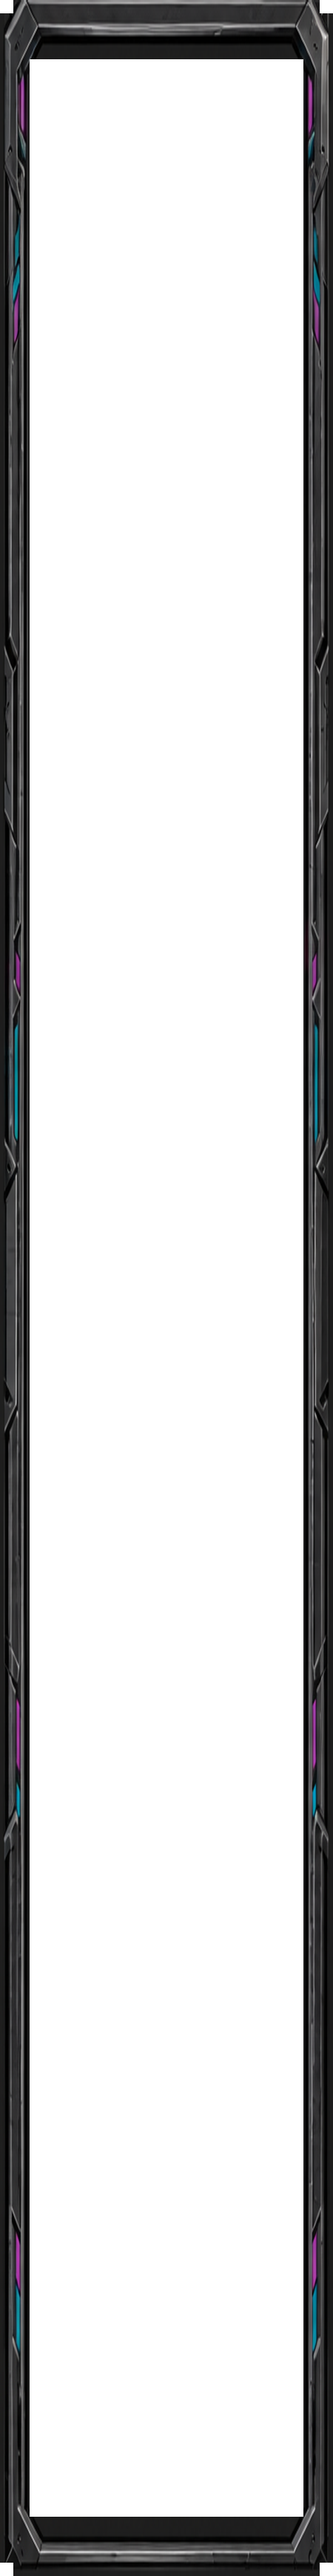
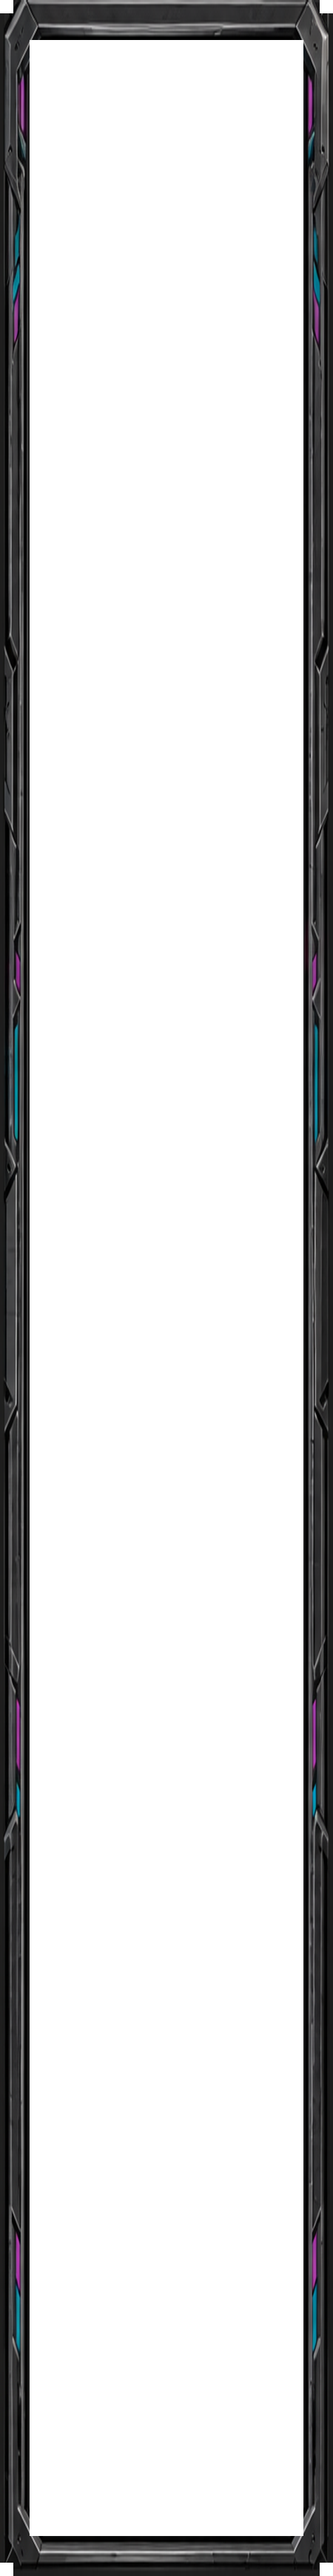
fix: extend championship gate interior window

Changed region(s): [[0.0933, 0.9629, 0.9022, 0.994], [0.0933, 0.0, 0.9022, 0.0311]]

diff --git a/PROJECT-STATUS.md b/PROJECT-STATUS.md
@@ -1438,7 +1438,7 @@ PR: https://github.com/overvivi/vivigames/pull/1
 
 ### 2026-08-29 — Codex（Remaster：ゲート枠・内背景の再規格化、未公開）
 
-- 継ぎ足しを廃止し、通常・選択の枠を同一外寸`450×3477`、同一の透明開口`left:40 / top:80 / width:370 / height:3317`で新規作成。上端・下端とも同じ細い金属の敷居にして、選択時だけ別形状だった問題をなくした
+- 継ぎ足しを廃止し、通常・選択の枠を同一外寸`450×3477`、同一の透明開口`left:40 / top:54 / width:370 / height:3369`で新規作成。上端・下端とも同じ細い金属の敷居にして、選択時だけ別形状だった問題をなくした。初回の`top:80`は金属ではない黒い内張りを26px残していたため、中心列を実測して金属直前まで拡張済み
 - 左右のキャラ色レールも通常・選択で同じ長さ`820px`へ統一。上端で点灯が届かないように見える余白を残さない
 - 枠内背景は、新しい細長い無彩色マスターから完成規格と同じ比率で切り出し、`cover`で余る端だけを落として7色展開した。縦横を別倍率で引き伸ばさず、床・オーラは下部に広く残している
 - 旧枠原画v2、旧内背景マスターv3、旧枠v2配布素材を削除。型チェック、Remaster公開用ビルド、ルート`npm run verify`、`git diff --check`成功。実機確認後にユーザーの明示`push`で公開する
